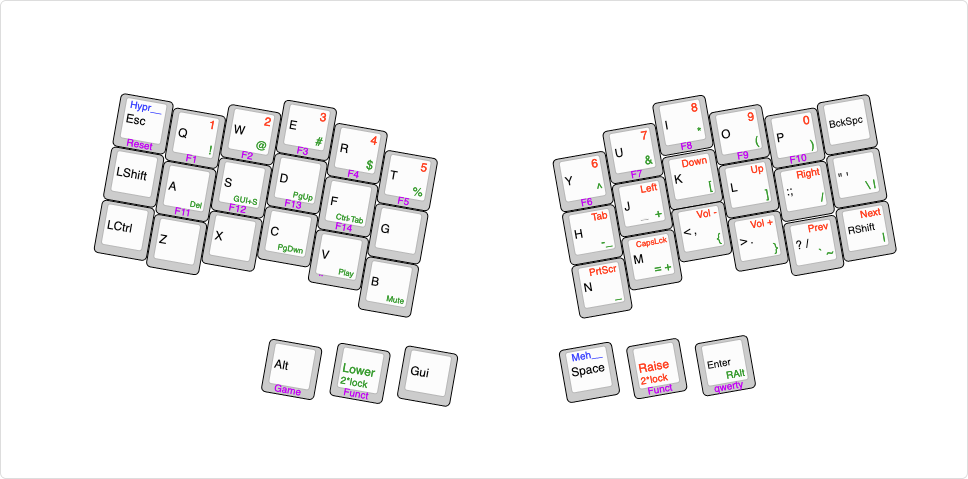
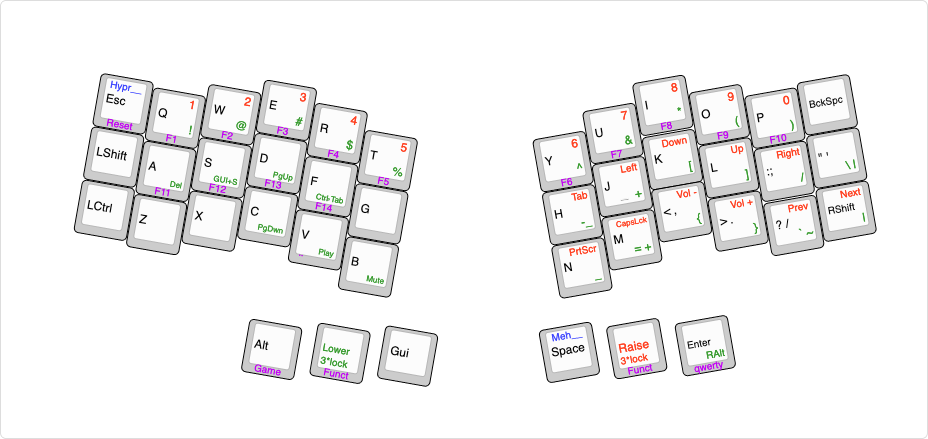
change tapping term to 3

diff --git a/config.h b/config.h
@@ -21,7 +21,7 @@ along with this program.  If not, see <http://www.gnu.org/licenses/>.
 
 /* Select hand configuration */
 #define TAPPING_TERM 250
-#define TAPPING_TOGGLE 2
+#define TAPPING_TOGGLE 3
 #define MASTER_LEFT
 #define IGNORE_MOD_TAP_INTERRUPT
 // #define MASTER_RIGHT
